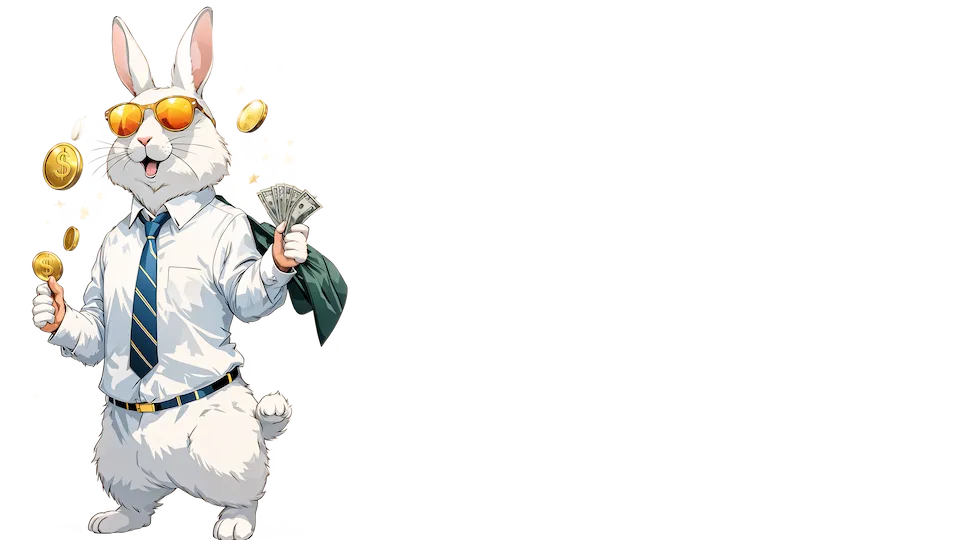
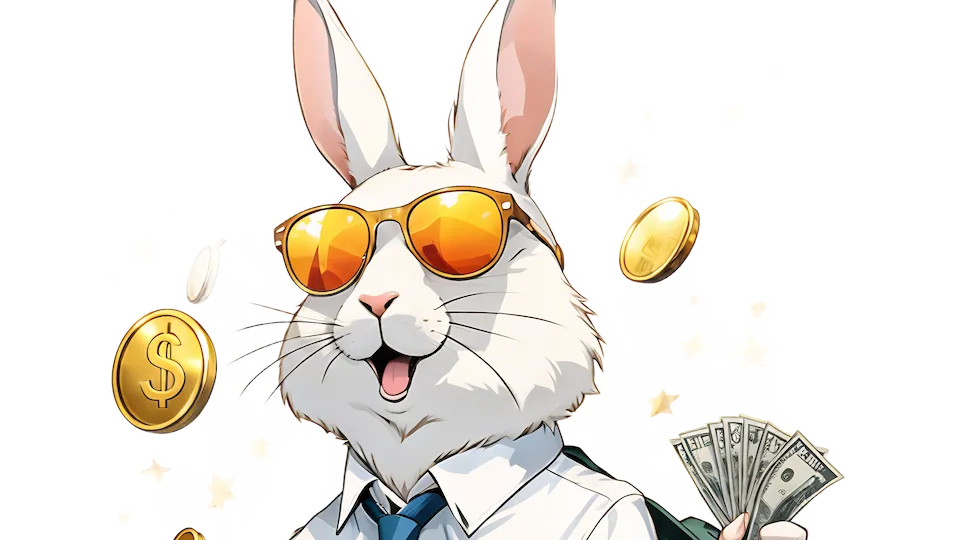
Update DEX configuration and branding

diff --git a/public/config.js b/public/config.js
@@ -4,7 +4,7 @@ window.__RUNTIME_CONFIG__ = {
   "VITE_BROKER_EOA_ADDRESS": "0xc1cf5c78952f6fd6ef92be97e8da413cb343ddef",
   "VITE_DISABLE_MAINNET": "false",
   "VITE_DISABLE_TESTNET": "false",
-  "VITE_ORDERLY_MAINNET_CHAINS": "42161,8453",
+  "VITE_ORDERLY_MAINNET_CHAINS": "42161,10,8453,5000,1,56,1329,43114,900900900,2818,146,80094,1514,34443,98866,2741,143",
   "VITE_ORDERLY_TESTNET_CHAINS": "421614,97,10143,11124,901901901",
   "VITE_DEFAULT_CHAIN": "42161",
   "VITE_PRIVY_APP_ID": "",
@@ -19,7 +19,7 @@ window.__RUNTIME_CONFIG__ = {
   "VITE_HAS_PRIMARY_LOGO": "true",
   "VITE_HAS_SECONDARY_LOGO": "true",
   "VITE_ENABLED_MENUS": "Trading,Swap,Markets,Portfolio,Vaults,Points,Leaderboard,Campaigns",
-  "VITE_CUSTOM_MENUS": "ACT Dashboard, https://deanobones.github.io/ApexChampTraders/",
+  "VITE_CUSTOM_MENUS": "",
   "VITE_ENABLE_SERVICE_DISCLAIMER_DIALOG": "false",
   "VITE_ENABLE_CAMPAIGNS": "false",
   "VITE_TELEGRAM_URL": "",
@@ -31,11 +31,11 @@ window.__RUNTIME_CONFIG__ = {
   "VITE_SEO_SITE_LANGUAGE": "en",
   "VITE_SEO_SITE_LOCALE": "en_UK",
   "VITE_SEO_TWITTER_HANDLE": "",
-  "VITE_SEO_THEME_COLOR": "#020836",
+  "VITE_SEO_THEME_COLOR": "#4a0193",
   "VITE_SEO_KEYWORDS": "dex, crypto, trading, ACT, Apex",
   "VITE_AVAILABLE_LANGUAGES": "en",
   "VITE_USE_CUSTOM_PNL_POSTERS": "true",
-  "VITE_CUSTOM_PNL_POSTER_COUNT": "2",
+  "VITE_CUSTOM_PNL_POSTER_COUNT": "1",
   "VITE_TRADING_VIEW_COLOR_CONFIG": "",
   "VITE_ANALYTICS_SCRIPT": "",
   "VITE_SYMBOL_LIST": "",